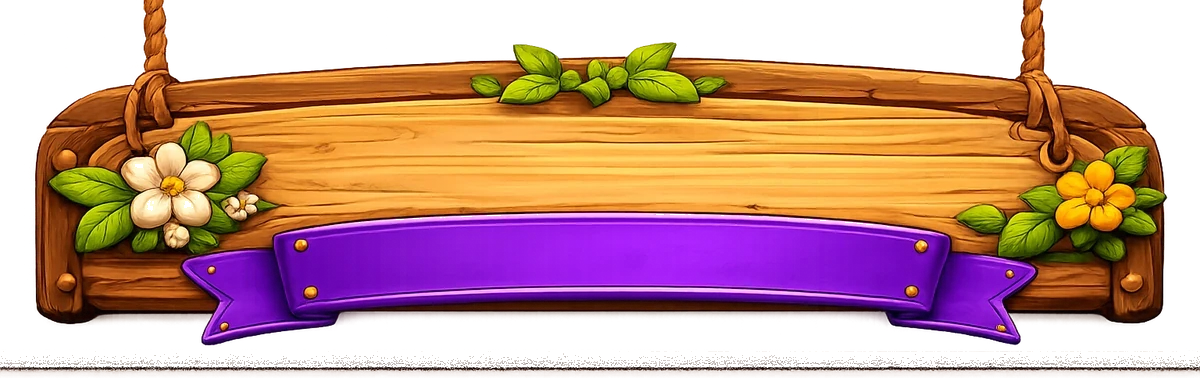
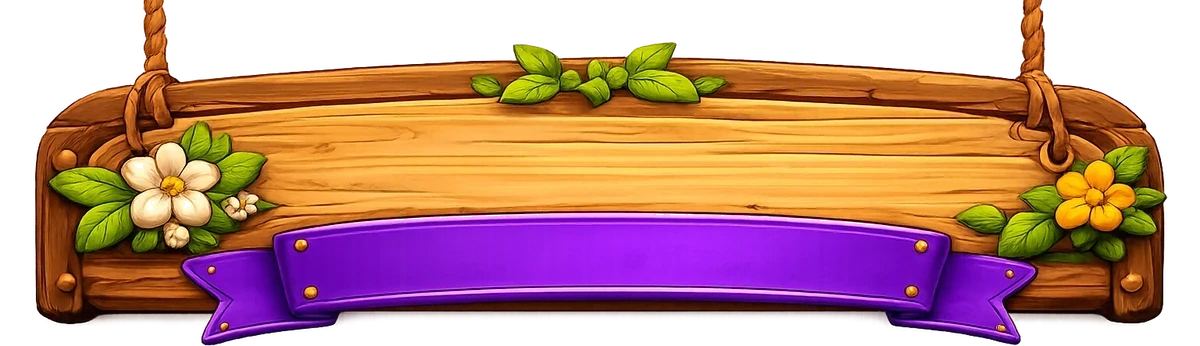
修三處髒東西：小屋木牌殘影、手機首頁飛船被切、地圖強迫轉向
- cabin/title-plate.webp 底部有一排髒點加一條整寬灰槓（去背沒切乾淨），
  切掉 32 列，框比例與文字位置跟著換算
- 首頁飛船容器的 overflow-hidden 拿掉：飛船算出來 205px、容器 196px，
  上下各被切一條，看起來像鸚鵡旁邊卡了一條線
- 冒險地圖不再叫使用者把手機轉橫向，桌機版直接響應式（地圖早就統一用桌機版設定了）

順便：書單接上真實書封（Open Library，免金鑰、用 ISBN 查），
三頁主視覺標題在手機上不再斷行。

diff --git a/src/data/blog-posts.ts b/src/data/blog-posts.ts
@@ -977,27 +977,27 @@ export const BOOKS = [
   {
     category: "3-5 歲入門",
     items: [
-      { title: "Brown Bear, Brown Bear, What Do You See?", author: "Eric Carle", age: "3-5", amazon: "https://amzn.to/4bw6xfB", books: "https://www.books.com.tw/exep/assp.php/vegalin1029/products/F012778662?sloc=main&utm_source=vegalin1029&utm_medium=ap-books&utm_content=recommend&utm_campaign=ap-202603", image: "🐻", description: "最經典的英文繪本入門，重複句型+鮮豔圖畫" , match: "L3 市場街 Animals & Colors" },
-      { title: "The Very Hungry Caterpillar", author: "Eric Carle", age: "3-6", amazon: "https://amzn.to/4bDewaN", books: "https://www.books.com.tw/exep/assp.php/vegalin1029/products/F017496739?sloc=main&utm_source=vegalin1029&utm_medium=ap-books&utm_content=recommend&utm_campaign=ap-202603", image: "🐛", description: "學數字、食物、星期，孩子百看不膩" , match: "L3 市場街 Food & Numbers" },
-      { title: "Dear Zoo", author: "Rod Campbell", age: "2-5", amazon: "https://amzn.to/4sk0T7B", books: "", image: "🦁", description: "翻翻書互動設計，學動物和形容詞" , match: "L3 市場街 Animals" },
-      { title: "Goodnight Moon", author: "Margaret Wise Brown", age: "2-5", amazon: "https://amzn.to/4rFSKt6", books: "", image: "🌙", description: "睡前讀物經典，韻律優美好記憶" , match: "L2 聲音島 Phonics" },
+      { title: "Brown Bear, Brown Bear, What Do You See?", author: "Eric Carle", age: "3-5", amazon: "https://amzn.to/4bw6xfB", books: "https://www.books.com.tw/exep/assp.php/vegalin1029/products/F012778662?sloc=main&utm_source=vegalin1029&utm_medium=ap-books&utm_content=recommend&utm_campaign=ap-202603", image: "🐻", description: "最經典的英文繪本入門，重複句型+鮮豔圖畫" , match: "L3 市場街 Animals & Colors" , cover: "/images/books/covers/brown-bear.webp" },
+      { title: "The Very Hungry Caterpillar", author: "Eric Carle", age: "3-6", amazon: "https://amzn.to/4bDewaN", books: "https://www.books.com.tw/exep/assp.php/vegalin1029/products/F017496739?sloc=main&utm_source=vegalin1029&utm_medium=ap-books&utm_content=recommend&utm_campaign=ap-202603", image: "🐛", description: "學數字、食物、星期，孩子百看不膩" , match: "L3 市場街 Food & Numbers" , cover: "/images/books/covers/hungry-caterpillar.webp" },
+      { title: "Dear Zoo", author: "Rod Campbell", age: "2-5", amazon: "https://amzn.to/4sk0T7B", books: "", image: "🦁", description: "翻翻書互動設計，學動物和形容詞" , match: "L3 市場街 Animals" , cover: "/images/books/covers/dear-zoo.webp" },
+      { title: "Goodnight Moon", author: "Margaret Wise Brown", age: "2-5", amazon: "https://amzn.to/4rFSKt6", books: "", image: "🌙", description: "睡前讀物經典，韻律優美好記憶" , match: "L2 聲音島 Phonics" , cover: "/images/books/covers/goodnight-moon.webp" },
     ],
   },
   {
     category: "5-8 歲進階",
     items: [
-      { title: "Elephant & Piggie 系列", author: "Mo Willems", age: "5-8", amazon: "https://amzn.to/40ZENvf", books: "", image: "🐘", description: "對話式繪本，最適合練口說" , match: "L4 學校路 Feelings" },
-      { title: "Fly Guy 系列", author: "Tedd Arnold", age: "5-8", amazon: "https://amzn.to/47brgEh", books: "https://www.books.com.tw/exep/assp.php/vegalin1029/products/F010718271?sloc=main&utm_source=vegalin1029&utm_medium=ap-books&utm_content=recommend&utm_campaign=ap-202603", image: "🪰", description: "橋樑書，從繪本跨到章節書" , match: "L2 聲音島 Phonics" },
-      { title: "Oxford Reading Tree 系列", author: "Oxford", age: "4-8", amazon: "https://amzn.to/4lEkltg", books: "", image: "🌳", description: "英國小學指定教材，分級閱讀最完整" , match: "L4 學校路 Daily Life" },
+      { title: "Elephant & Piggie 系列", author: "Mo Willems", age: "5-8", amazon: "https://amzn.to/40ZENvf", books: "", image: "🐘", description: "對話式繪本，最適合練口說" , match: "L4 學校路 Feelings" , cover: "/images/books/covers/elephant-piggie.webp" },
+      { title: "Fly Guy 系列", author: "Tedd Arnold", age: "5-8", amazon: "https://amzn.to/47brgEh", books: "https://www.books.com.tw/exep/assp.php/vegalin1029/products/F010718271?sloc=main&utm_source=vegalin1029&utm_medium=ap-books&utm_content=recommend&utm_campaign=ap-202603", image: "🪰", description: "橋樑書，從繪本跨到章節書" , match: "L2 聲音島 Phonics" , cover: "/images/books/covers/fly-guy.webp" },
+      { title: "Oxford Reading Tree 系列", author: "Oxford", age: "4-8", amazon: "https://amzn.to/4lEkltg", books: "", image: "🌳", description: "英國小學指定教材，分級閱讀最完整" , match: "L4 學校路 Daily Life" , cover: "/images/books/covers/oxford-reading-tree.webp" },
     ],
   },
   {
     category: "8-12 歲挑戰",
     items: [
-      { title: "Magic Tree House 系列", author: "Mary Pope Osborne", age: "7-12", amazon: "https://amzn.to/4rJBZ06", books: "", image: "🏠", description: "冒險+知識，學過去式最自然的方式" , match: "L9 時光道 Time Road" },
-      { title: "Diary of a Wimpy Kid 系列", author: "Jeff Kinney", age: "8-12", amazon: "https://amzn.to/4lFVSDQ", books: "https://www.books.com.tw/exep/assp.php/vegalin1029/products/F01b140253?sloc=main&utm_source=vegalin1029&utm_medium=ap-books&utm_content=recommend&utm_campaign=ap-202603", image: "📔", description: "超受歡迎！漫畫風格輕鬆讀" , match: "L8 問題塔 Q&A" },
-      { title: "Dog Man 系列", author: "Dav Pilkey", age: "7-12", amazon: "https://amzn.to/47tXv1J", books: "https://www.books.com.tw/exep/assp.php/vegalin1029/products/F015311445?sloc=main&utm_source=vegalin1029&utm_medium=ap-books&utm_content=recommend&utm_campaign=ap-202603", image: "🐕", description: "圖多字少，讓不愛讀書的孩子也愛上" , match: "L11 挑戰場 Quiz" },
-      { title: "Who Was 系列", author: "Various", age: "8-12", amazon: "https://amzn.to/40ZFFA1", books: "https://www.books.com.tw/exep/assp.php/vegalin1029/products/F010874629?sloc=main&utm_source=vegalin1029&utm_medium=ap-books&utm_content=recommend&utm_campaign=ap-202603", image: "🧑🔬", description: "人物傳記，學英文也學歷史" , match: "L10 未來橋 Future Bridge" },
+      { title: "Magic Tree House 系列", author: "Mary Pope Osborne", age: "7-12", amazon: "https://amzn.to/4rJBZ06", books: "", image: "🏠", description: "冒險+知識，學過去式最自然的方式" , match: "L9 時光道 Time Road" , cover: "/images/books/covers/magic-tree-house.webp" },
+      { title: "Diary of a Wimpy Kid 系列", author: "Jeff Kinney", age: "8-12", amazon: "https://amzn.to/4lFVSDQ", books: "https://www.books.com.tw/exep/assp.php/vegalin1029/products/F01b140253?sloc=main&utm_source=vegalin1029&utm_medium=ap-books&utm_content=recommend&utm_campaign=ap-202603", image: "📔", description: "超受歡迎！漫畫風格輕鬆讀" , match: "L8 問題塔 Q&A" , cover: "/images/books/covers/wimpy-kid.webp" },
+      { title: "Dog Man 系列", author: "Dav Pilkey", age: "7-12", amazon: "https://amzn.to/47tXv1J", books: "https://www.books.com.tw/exep/assp.php/vegalin1029/products/F015311445?sloc=main&utm_source=vegalin1029&utm_medium=ap-books&utm_content=recommend&utm_campaign=ap-202603", image: "🐕", description: "圖多字少，讓不愛讀書的孩子也愛上" , match: "L11 挑戰場 Quiz" , cover: "/images/books/covers/dog-man.webp" },
+      { title: "Who Was 系列", author: "Various", age: "8-12", amazon: "https://amzn.to/40ZFFA1", books: "https://www.books.com.tw/exep/assp.php/vegalin1029/products/F010874629?sloc=main&utm_source=vegalin1029&utm_medium=ap-books&utm_content=recommend&utm_campaign=ap-202603", image: "🧑🔬", description: "人物傳記，學英文也學歷史" , match: "L10 未來橋 Future Bridge" , cover: "/images/books/covers/who-was.webp" },
     ],
   },
   {

diff --git a/src/app/books/page.tsx b/src/app/books/page.tsx
@@ -38,7 +38,7 @@ export default function BooksPage() {
           <div className="rounded-2xl border-4 border-amber-900/70 shadow-xl px-4 py-3"
             style={{ background: 'linear-gradient(#e6c08a,#c99a5c)' }}>
             <p className="m-0 text-amber-900/80 font-black tracking-[0.18em] text-[10px] sm:text-xs">ADVENTURE BOOK GARDEN</p>
-            <h1 className="m-0 font-black text-amber-950 text-xl sm:text-3xl leading-tight">英文冒險閱讀花園</h1>
+            <h1 className="m-0 font-black text-amber-950 text-lg sm:text-3xl leading-tight whitespace-nowrap">英文冒險閱讀花園</h1>
           </div>
           <p className="inline-block mt-2 rounded-full px-4 py-1.5 font-black text-white text-[11px] sm:text-sm shadow-lg"
             style={{ background: 'linear-gradient(#8b5cf6,#6d28d9)', textShadow: '0 1px 2px rgba(50,20,90,.6)' }}>
@@ -95,9 +95,15 @@ export default function BooksPage() {
               <div className="grid grid-cols-2 lg:grid-cols-4 gap-2.5 sm:gap-3 mt-3">
                 {group.items.map(book => (
                   <article key={book.title} className="bg-white rounded-2xl border-2 border-white shadow-md p-3 flex flex-col">
-                    <div className="flex items-start gap-2">
-                      <span className="text-3xl sm:text-4xl leading-none shrink-0">{book.image}</span>
-                      <span className="ml-auto shrink-0 bg-green-100 text-green-700 font-black text-[9px] rounded-md px-1.5 py-0.5 leading-tight text-center">
+                    {/* 書封來自 Open Library（免金鑰、用 ISBN 查）；沒有封面的書退回 emoji */}
+                    <div className="relative">
+                      {'cover' in book && (book as { cover?: string }).cover ? (
+                        <img src={(book as { cover?: string }).cover} alt={book.title}
+                          className="w-full h-24 sm:h-32 object-contain" loading="lazy" />
+                      ) : (
+                        <div className="w-full h-24 sm:h-32 flex items-center justify-center text-4xl">{book.image}</div>
+                      )}
+                      <span className="absolute right-0 top-0 bg-green-100 text-green-700 font-black text-[9px] rounded-md px-1.5 py-0.5 leading-tight text-center">
                         適齡<br />{book.age}
                       </span>
                     </div>

diff --git a/src/components/RainbowValleyMap.tsx b/src/components/RainbowValleyMap.tsx
@@ -142,7 +142,6 @@ export default function RainbowValleyMap({ onAllComplete }: Props) {
   const [openLevel, setOpenLevel] = useState<LevelDef | null>(null);
   const [showConfetti, setShowConfetti] = useState(false);
   const [hydrated, setHydrated] = useState(false);
-  const [isPortrait, setIsPortrait] = useState(false);
   const [device, setDevice] = useState<DeviceKind>("desktop");
   const [showDebug, setShowDebug] = useState(false);
   const [characterKey, setCharacterKey] = useState(CHARACTERS[0].key);
@@ -155,8 +154,6 @@ export default function RainbowValleyMap({ onAllComplete }: Props) {
       const w = window.innerWidth;
       const h = window.innerHeight;
       const ua = navigator.userAgent;
-      const portrait = h > w;
-      setIsPortrait(portrait && w < 900);
 
       // 真實裝置 UA 偵測（最可靠）
       const isPhone = /iPhone|Android.*Mobile/i.test(ua);
@@ -293,26 +290,6 @@ export default function RainbowValleyMap({ onAllComplete }: Props) {
         </button>
       </div>
 
-      {/* 手機直式時：建議橫向操作 */}
-      {isPortrait && (
-        <motion.div
-          className="fixed top-1/2 left-1/2 -translate-x-1/2 -translate-y-1/2 z-40 bg-white/95 backdrop-blur rounded-2xl shadow-2xl px-5 py-4 text-center max-w-[280px]"
-          initial={{ scale: 0, opacity: 0 }}
-          animate={{ scale: 1, opacity: 1 }}
-        >
-          <motion.div
-            className="text-5xl mb-2"
-            animate={{ rotate: [0, 90, 90, 0, 0] }}
-            transition={{ duration: 2.5, repeat: Infinity, times: [0, 0.3, 0.6, 0.9, 1] }}
-          >📱</motion.div>
-          <p className="font-black text-purple-700 text-base">把手機轉橫向</p>
-          <p className="text-xs text-gray-600 mt-1">橫著拿才看得清楚整張地圖喔！</p>
-          <button
-            onClick={() => setIsPortrait(false)}
-            className="mt-3 text-xs text-purple-500 underline"
-          >直立繼續（地圖會比較小）</button>
-        </motion.div>
-      )}
 
       {/* 地圖區（滿版，依裝置切換圖檔與比例）*/}
       <div className="relative w-full overflow-hidden" style={{ height: "100vh", maxHeight: "100svh" }}>

diff --git a/src/app/adventure-map/page.tsx b/src/app/adventure-map/page.tsx
@@ -33,20 +33,6 @@ export default function AdventureMapPage() {
   const [showLocked, setShowLocked] = useState<WorldDef | null>(null);
   const [showDebug, setShowDebug] = useState(false);
   const [currentWorld, setCurrentWorld] = useState(1);
-  const [isPortrait, setIsPortrait] = useState(false);
-
-  // 手機直式自動轉橫向
-  useEffect(() => {
-    const check = () => setIsPortrait(window.innerHeight > window.innerWidth && window.innerWidth < 900);
-    check();
-    window.addEventListener("resize", check);
-    window.addEventListener("orientationchange", check);
-    return () => {
-      window.removeEventListener("resize", check);
-      window.removeEventListener("orientationchange", check);
-    };
-  }, []);
-
   // 依 localStorage 重新渲染
   useEffect(() => {
     const refresh = () => { setTick(t => t + 1); setCurrentWorld(getCurrentWorldId()); };
@@ -86,25 +72,6 @@ export default function AdventureMapPage() {
           </button>
         )}
       </div>
-
-      {/* 手機直式時：建議橫向操作 */}
-      {isPortrait && (
-        <div className="fixed top-1/2 left-1/2 -translate-x-1/2 -translate-y-1/2 z-40 bg-white/95 backdrop-blur rounded-2xl shadow-2xl px-5 py-4 text-center max-w-[280px]">
-          <div className="text-5xl mb-2" style={{ animation: "wiggle 2.5s ease-in-out infinite" }}>📱</div>
-          <p className="font-black text-purple-700 text-base">把手機轉橫向</p>
-          <p className="text-xs text-gray-600 mt-1">橫著拿才看得清楚整張地圖喔！</p>
-          <button
-            onClick={() => setIsPortrait(false)}
-            className="mt-3 text-xs text-purple-500 underline"
-          >直立繼續（地圖會比較小）</button>
-          <style dangerouslySetInnerHTML={{ __html: `
-            @keyframes wiggle {
-              0%, 100% { transform: rotate(0deg); }
-              50% { transform: rotate(90deg); }
-            }
-          `}} />
-        </div>
-      )}
 
       {/* 地圖容器（依比例填滿視窗，不自動旋轉）*/}
       <div className="min-h-screen flex items-center justify-center p-2 md:p-4">

diff --git a/src/app/cabin/CabinClient.tsx b/src/app/cabin/CabinClient.tsx
@@ -121,14 +121,14 @@ export default function CabinClient() {
 
       <div className="relative mx-auto px-3 py-[3vh]" style={{ maxWidth: '1200px' }}>
         {/* ===== 標題木牌（頭標圖框） ===== */}
-        <div className="relative w-full mx-auto" style={{ aspectRatio: '1200 / 378', maxWidth: 'min(94%, 560px)' }}>
+        <div className="relative w-full mx-auto" style={{ aspectRatio: '1200 / 346', maxWidth: 'min(94%, 560px)' }}>
           <img src="/images/cabin/title-plate.webp" alt="" className="absolute inset-0 w-full h-full object-contain" />
           <h1 className="absolute left-1/2 -translate-x-1/2 font-black text-amber-900 leading-none whitespace-nowrap"
-            style={{ top: '22%', fontSize: 'clamp(20px,3vw,40px)', textShadow: '0 2px 3px rgba(255,240,200,.55)' }}>
+            style={{ top: '24%', fontSize: 'clamp(20px,3vw,40px)', textShadow: '0 2px 3px rgba(255,240,200,.55)' }}>
             🏠 我的小屋
           </h1>
           <p className="absolute text-center font-black text-white whitespace-nowrap"
-            style={{ left: '24.8%', width: '52.2%', top: '64%', fontSize: 'clamp(10px,1.3vw,19px)', textShadow: '0 1px 2px rgba(55,20,95,.7)' }}>
+            style={{ left: '24.8%', width: '52.2%', top: '70%', fontSize: 'clamp(10px,1.3vw,19px)', textShadow: '0 1px 2px rgba(55,20,95,.7)' }}>
             {member === 'guest' ? '訪客模式' : isVip ? '💎 冒險會員' : '免費會員'}
           </p>
         </div>

diff --git a/src/app/parents/page.tsx b/src/app/parents/page.tsx
@@ -76,7 +76,7 @@ export default function ParentsPage() {
           <div className="rounded-2xl border-4 border-amber-900/70 shadow-xl px-4 py-3"
             style={{ background: 'linear-gradient(#e6c08a,#c99a5c)' }}>
             <p className="m-0 text-amber-900/80 font-black tracking-[0.18em] text-[10px] sm:text-xs">PARENT ADVENTURE CENTER</p>
-            <h1 className="m-0 font-black text-amber-950 text-xl sm:text-3xl leading-tight">家長冒險中心</h1>
+            <h1 className="m-0 font-black text-amber-950 text-lg sm:text-3xl leading-tight whitespace-nowrap">家長冒險中心</h1>
           </div>
           <p className="inline-block mt-2 rounded-full px-4 py-1.5 font-black text-white text-[11px] sm:text-sm shadow-lg"
             style={{ background: 'linear-gradient(#8b5cf6,#6d28d9)', textShadow: '0 1px 2px rgba(50,20,90,.6)' }}>

diff --git a/src/app/home/page.tsx b/src/app/home/page.tsx
@@ -389,7 +389,9 @@ export default function LayeredBanner() {
 
           {/* 右側(桌機 xl+) / 下方(手機+iPad)：飛船 PNG（浮動）*/}
           <motion.div
-            className="w-full xl:w-[55%] flex items-center justify-center relative xl:-ml-12 mt-0 px-2 xl:px-0 flex-1 xl:flex-none min-h-0 overflow-hidden"
+            // 這裡本來有 overflow-hidden：飛船算出來比容器高（205 vs 196），
+            // 就被切掉上下各一條，看起來像鸚鵡旁邊卡了一條線。飛船本來就去背有陰影，不需要裁。
+            className="w-full xl:w-[55%] flex items-center justify-center relative xl:-ml-12 mt-0 px-2 xl:px-0 flex-1 xl:flex-none min-h-0"
             initial={{ x: 200, opacity: 0 }}
             animate={{ x: 0, opacity: 1 }}
             transition={{ duration: 1, delay: 0.3 }}

diff --git a/src/app/blog/BlogClient.tsx b/src/app/blog/BlogClient.tsx
@@ -55,7 +55,7 @@ export default function BlogClient() {
             <div className="rounded-2xl border-4 border-amber-900/70 shadow-xl px-4 py-3"
               style={{ background: 'linear-gradient(#c98a4b,#a9713a)' }}>
               <p className="m-0 text-amber-50/90 font-black tracking-[0.2em] text-[10px] sm:text-xs">ADVENTURE LIBRARY</p>
-              <h1 className="m-0 font-black text-white text-xl sm:text-3xl leading-tight"
+              <h1 className="m-0 font-black text-white text-lg sm:text-3xl leading-tight whitespace-nowrap"
                 style={{ textShadow: '0 2px 4px rgba(80,40,10,.6)' }}>英語冒險圖書館</h1>
               <p className="m-0 text-amber-50/90 font-bold text-[10px] sm:text-sm mt-0.5">陪孩子找到適合自己的英語學習方式</p>
             </div>
